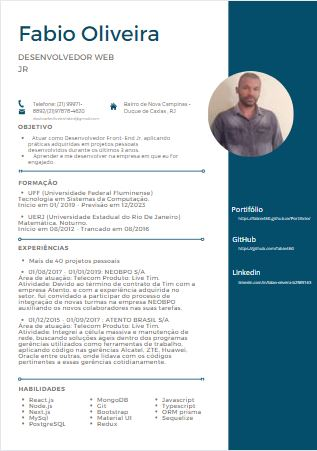
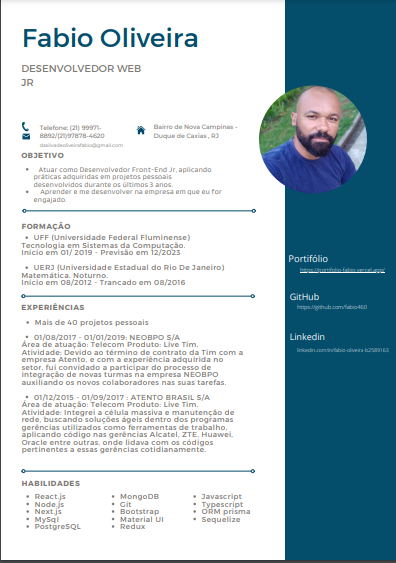
curriculo atualizado

diff --git a/src/components/Banner/ProfComponent.js b/src/components/Banner/ProfComponent.js
@@ -5,13 +5,12 @@ import { GiEarthAmerica } from "react-icons/gi";
 
 import { FaLinkedinIn } from "react-icons/fa";
 import { Slide } from "react-awesome-reveal";
-import ReactWhatsapp from "react-whatsapp";
-import { BsWhatsapp } from "react-icons/bs";
+import ReactWhatsapp from "react-whatsapp";import { BsWhatsapp } from "react-icons/bs";
 import { linkImagem } from "../../images/linkImgCurriculo";
 
 const ProfComponent = () => {
   const {linkImagem} = require('../../images/linkImgCurriculo');
-  const perfil = require('../../images/fabio.jpg')
+  const perfil = require('../../images/foto_fabio.jpg')
   // const clickLink = ()=>{
   //   href="https://firebasestorage.googleapis.com/v0/b/galeria-de-fotos-69d44.appspot.com/o/Curr%C3%ADculo%20Fabio%20.pdf?alt=media&token=4f0bd07c-32c2-466e-b2dc-ec6e0e944691"
 

diff --git a/src/images/linkImgCurriculo.js b/src/images/linkImgCurriculo.js
@@ -1,1 +1,1 @@
-export const linkImagem = "https://firebasestorage.googleapis.com/v0/b/galeria-de-fotos-69d44.appspot.com/o/Curr%C3%ADculo%20Fabio.pdf?alt=media&token=3ed64291-8228-4215-b7fd-e8101dac5fef"
+export const linkImagem = "https://firebasestorage.googleapis.com/v0/b/galeria-de-fotos-69d44.appspot.com/o/Curr%C3%ADculo%20Fabio%202.pdf?alt=media&token=cb216f70-1183-40cb-948a-c471886fbe7af"
